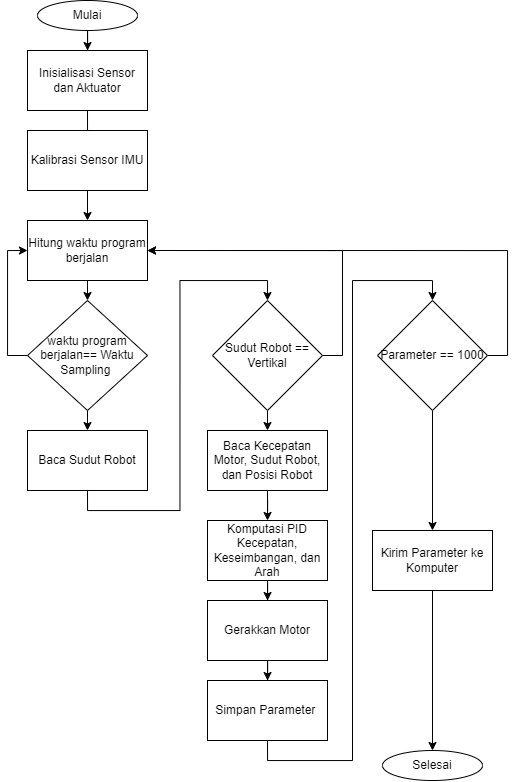
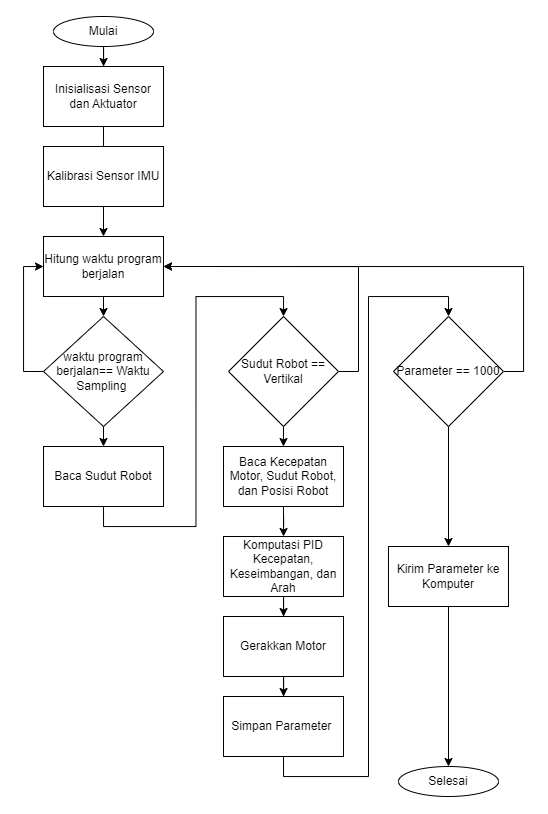
Redraw control diagram as light/dark SVG
The old PNG had a transparent background with black lines, so it was
nearly invisible in GitHub's dark theme. The new diagram is generated
by docs/diagrams/make_control_diagram.py, follows the v3 firmware
(speed PID output is the angle setpoint), colour-codes each loop and
switches with the GitHub theme via <picture>. The flowchart gets a
white background for the same reason.

Changed region(s): [[0.031, 0.0, 0.9612, 1.0], [0.062, 0.5524, 0.3411, 0.6752]]

diff --git a/docs/diagrams/make_control_diagram.py b/docs/diagrams/make_control_diagram.py
@@ -1,0 +1,186 @@
+"""Generate docs/images/control-system-{light,dark}.svg (cascade PID block diagram).
+
+    python docs/diagrams/make_control_diagram.py
+
+Edit the layout constants or labels below and re-run; no dependencies needed.
+"""
+import pathlib
+import sys
+
+OUT = pathlib.Path(sys.argv[1]) if len(sys.argv) > 1 else pathlib.Path(__file__).resolve().parent.parent / "images"
+
+THEMES = {
+    "light": dict(bg="#ffffff", fg="#1f2328", muted="#59636e", nfill="#f6f8fa", nstroke="#57606a",
+                  speed="#9a6700", speed_fill="#fff8c5", bal="#0969da", bal_fill="#ddf4ff",
+                  line="#1a7f37", line_fill="#dafbe1"),
+    "dark": dict(bg="#0d1117", fg="#e6edf3", muted="#9198a1", nfill="#161b22", nstroke="#8b949e",
+                 speed="#d29922", speed_fill="#2b2111", bal="#4493f8", bal_fill="#0f2742",
+                 line="#3fb950", line_fill="#11281a"),
+}
+
+# ---- layout -------------------------------------------------------------
+X0 = 24                       # setpoint arrows start
+SX = 160                      # summing junctions of speed + line loops
+R = 16
+PW, PH = 124, 54              # PID block size
+P1 = SX + R + 22              # speed / line PID left edge
+SX2 = P1 + PW + 66            # balance summing junction
+P2 = SX2 + R + 22             # balance PID left edge
+MX, MW = P2 + PW + 56, 126    # mixer
+RX, RW = MX + MW + 74, 136    # robot
+W = RX + RW + 22
+Y0, Y1 = 128, 250             # line row, main (speed -> balance) row
+MY0, MY1 = Y0 - 38, Y1 + 38
+RY0, RY1 = 106, 272
+YL, YR = 168, 232             # PWM left / right rows
+QTR = (MX + 16, 10, W - 22, 58)
+IMU = (MX, 310, RX + 44, 358)
+ENC = (MX, 384, W - 22, 432)
+H = 478
+
+FONT = "-apple-system, BlinkMacSystemFont, 'Segoe UI', Helvetica, Arial, sans-serif"
+
+
+def svg(theme):
+    c = THEMES[theme]
+    e = []
+    add = e.append
+
+    def line(points, color, dashed=False, arrow=True):
+        d = " ".join(f"{x},{y}" for x, y in points)
+        dash = ' stroke-dasharray="7 5"' if dashed else ""
+        mk = f' marker-end="url(#a-{color.strip("#")})"' if arrow else ""
+        add(f'<polyline points="{d}" fill="none" stroke="{color}" stroke-width="1.8"{dash}{mk}/>')
+
+    def text(x, y, s, size=14, color=None, weight=400, anchor="middle", italic=False):
+        style = ' font-style="italic"' if italic else ""
+        add(f'<text x="{x}" y="{y}" font-size="{size}" fill="{color or c["fg"]}" font-weight="{weight}" '
+            f'text-anchor="{anchor}"{style}>{s}</text>')
+
+    def sub(s):
+        # subscript, then a zero-width space to bring the baseline back for any following text
+        return f'<tspan font-size="0.72em" dy="4">{s}</tspan><tspan dy="-4"></tspan>'
+
+    def box(x0, y0, x1, y1, fill, stroke, rx=8):
+        add(f'<rect x="{x0}" y="{y0}" width="{x1 - x0}" height="{y1 - y0}" rx="{rx}" '
+            f'fill="{fill}" stroke="{stroke}" stroke-width="1.6"/>')
+
+    def junction(x, y, color):
+        add(f'<circle cx="{x}" cy="{y}" r="{R}" fill="{c["bg"]}" stroke="{color}" stroke-width="1.8"/>')
+        text(x, y + 5, "Σ", 15, color, 600)
+
+    def pid(x, y, title, subtitle, k):
+        box(x, y - PH / 2, x + PW, y + PH / 2, c[f"{k}_fill"], c[k])
+        text(x + PW / 2, y - 3, title, 14.5, c["fg"], 600)
+        text(x + PW / 2, y + 16, subtitle, 12, c[k])
+
+    def sensor(rect, title, subtitle, k):
+        x0, y0, x1, y1 = rect
+        box(x0, y0, x1, y1, c[f"{k}_fill"], c[k])
+        text((x0 + x1) / 2, y0 + 20, title, 13.5, c["fg"], 600)
+        text((x0 + x1) / 2, y0 + 38, subtitle, 12, c["muted"])
+
+    colors = {c["fg"], c["speed"], c["bal"], c["line"]}
+    defs = "".join(
+        f'<marker id="a-{col.strip("#")}" viewBox="0 0 10 10" refX="10" refY="5" markerWidth="9" '
+        f'markerHeight="9" markerUnits="userSpaceOnUse" orient="auto">'
+        f'<path d="M0,0 L10,5 L0,10 z" fill="{col}"/></marker>' for col in sorted(colors))
+
+    add(f'<rect width="{W}" height="{H}" fill="{c["bg"]}"/>')
+
+    # ---- setpoints ----
+    for y, label, desc in ((Y0, f"line{sub('sp')} = 0", "line setpoint"),
+                           (Y1, f"v{sub('sp')} = 1 m/s", "speed setpoint")):
+        line([(X0, y), (SX - R, y)], c["fg"])
+        text(X0 + 2, y - 9, label, 13.5, anchor="start")
+        text(X0 + 2, y + 19, desc, 12, c["muted"], anchor="start")
+
+    # ---- line loop (row 0) ----
+    junction(SX, Y0, c["line"])
+    text(SX - 25, Y0 - 7, "+", 14, c["fg"], 600)
+    text(SX - 13, Y0 - 22, "−", 15, c["line"], 600)
+    line([(SX + R, Y0), (P1, Y0)], c["fg"])
+    pid(P1, Y0, "Line PID", "steering", "line")
+    line([(P1 + PW, Y0), (MX, Y0)], c["fg"])
+    text((P1 + PW + MX) / 2, Y0 - 9, f"u{sub('steer')}", 14, italic=True)
+    text((P1 + PW + MX) / 2, Y0 + 19, "±100", 12, c["muted"])
+
+    # ---- speed -> balance cascade (row 1) ----
+    junction(SX, Y1, c["speed"])
+    text(SX - 25, Y1 - 7, "+", 14, c["fg"], 600)
+    text(SX - 13, Y1 + 34, "−", 15, c["speed"], 600)
+    line([(SX + R, Y1), (P1, Y1)], c["fg"])
+    pid(P1, Y1, "Speed PID", "outer loop", "speed")
+    line([(P1 + PW, Y1), (SX2 - R, Y1)], c["fg"])
+    text((P1 + PW + SX2 - R) / 2 - 10, Y1 - 9, f"θ{sub('sp')}", 14, italic=True)
+    text((P1 + PW + SX2 - R) / 2 - 10, Y1 + 19, "±2°", 12, c["muted"])
+    junction(SX2, Y1, c["bal"])
+    text(SX2 - 25, Y1 - 7, "+", 14, c["fg"], 600)
+    text(SX2 - 13, Y1 + 34, "−", 15, c["bal"], 600)
+    line([(SX2 + R, Y1), (P2, Y1)], c["fg"])
+    pid(P2, Y1, "Balance PID", "inner loop", "bal")
+    line([(P2 + PW, Y1), (MX, Y1)], c["fg"])
+    text((P2 + PW + MX) / 2, Y1 - 9, f"u{sub('bal')}", 14, italic=True)
+
+    # ---- mixer and robot ----
+    box(MX, MY0, MX + MW, MY1, c["nfill"], c["nstroke"])
+    mx = MX + MW / 2
+    text(mx, (MY0 + MY1) / 2 - 12, "Motor mixer", 14.5, c["fg"], 600)
+    text(mx, (MY0 + MY1) / 2 + 10, f"u{sub('bal')} ∓ u{sub('steer')}", 12.5, c["muted"])
+    text(mx, (MY0 + MY1) / 2 + 30, "clamp ±255", 12, c["muted"])
+    for y, s in ((YL, "L"), (YR, "R")):
+        line([(MX + MW, y), (RX, y)], c["fg"])
+        text((MX + MW + RX) / 2, y - 9, f"PWM{sub(s)}", 13)
+    box(RX, RY0, RX + RW, RY1, c["nfill"], c["nstroke"])
+    text(RX + RW / 2, (RY0 + RY1) / 2 - 4, "Robot", 16, c["fg"], 600)
+    text(RX + RW / 2, (RY0 + RY1) / 2 + 17, "2 × BLDC motor", 12, c["muted"])
+
+    # ---- sensors + feedback ----
+    sensor(QTR, "QTR-8A line sensor (8 × IR)", "weighted average → line position", "line")
+    qx = RX + RW - 34
+    line([(qx, RY0), (qx, QTR[3])], c["line"], dashed=True)
+    qy = (QTR[1] + QTR[3]) / 2
+    line([(QTR[0], qy), (SX, qy), (SX, Y0 - R)], c["line"], dashed=True)
+    text((SX + QTR[0]) / 2, qy - 7, "line position", 12.5, c["line"])
+
+    sensor(IMU, "MPU6050 IMU", "gyro + accel → Kalman filter", "bal")
+    ix = RX + 22
+    line([(ix, RY1), (ix, IMU[1])], c["bal"], dashed=True)
+    iy = (IMU[1] + IMU[3]) / 2
+    line([(IMU[0], iy), (SX2, iy), (SX2, Y1 + R)], c["bal"], dashed=True)
+    text((SX2 + IMU[0]) / 2, iy - 7, "tilt angle θ", 12.5, c["bal"])
+
+    sensor(ENC, "Wheel encoders (left, right)", f"v = (v{sub('L')} + v{sub('R')}) / 2", "speed")
+    ex = RX + RW - 18
+    line([(ex, RY1), (ex, ENC[1])], c["speed"], dashed=True)
+    ey = (ENC[1] + ENC[3]) / 2
+    line([(ENC[0], ey), (SX, ey), (SX, Y1 + R)], c["speed"], dashed=True)
+    text((SX + ENC[0]) / 2, ey - 7, "wheel speed v", 12.5, c["speed"])
+
+    # ---- legend ----
+    ly = H - 16
+    x = X0
+    add(f'<line x1="{x}" y1="{ly - 4}" x2="{x + 26}" y2="{ly - 4}" stroke="{c["fg"]}" stroke-width="1.8"/>')
+    text(x + 34, ly, "control signal", 12, c["muted"], anchor="start")
+    x += 140
+    for k, label in (("speed", "speed feedback"), ("bal", "angle feedback"), ("line", "line feedback")):
+        add(f'<line x1="{x}" y1="{ly - 4}" x2="{x + 26}" y2="{ly - 4}" stroke="{c[k]}" '
+            f'stroke-width="1.8" stroke-dasharray="7 5"/>')
+        text(x + 34, ly, label, 12, c["muted"], anchor="start")
+        x += 145
+    text(W - 22, ly, "all loops run every 10 ms", 12, c["muted"], anchor="end")
+
+    body = "\n  ".join(e)
+    return (f'<svg xmlns="http://www.w3.org/2000/svg" viewBox="0 0 {W} {H}" width="{W}" height="{H}" '
+            f'font-family="{FONT}" role="img" aria-labelledby="t d">\n'
+            f'  <title id="t">TWSBR cascade PID control system</title>\n'
+            f'  <desc id="d">Speed PID sets the tilt-angle setpoint for the balance PID; the line PID adds '
+            f'differential steering; a mixer turns both into left and right motor PWM. Encoders, the MPU6050 '
+            f'with a Kalman filter and the QTR-8A line sensor close the three loops.</desc>\n'
+            f'  <defs>{defs}</defs>\n  {body}\n</svg>\n')
+
+
+for theme in THEMES:
+    path = OUT / f"control-system-{theme}.svg"
+    path.write_text(svg(theme), encoding="utf-8", newline="\n")
+    print(path.name, W, "x", H)

diff --git a/README.md b/README.md
@@ -37,7 +37,10 @@ the line, but it stays on it.
 
 ## How it works
 
-![Control system diagram](docs/images/control-system.png)
+<picture>
+  <source media="(prefers-color-scheme: dark)" srcset="docs/images/control-system-dark.svg">
+  <img src="docs/images/control-system-light.svg" alt="Cascade PID diagram: the speed PID sets the tilt-angle setpoint for the balance PID, the line PID adds steering, a mixer drives the two motors, and encoders, IMU and line sensor feed back">
+</picture>
 
 Every 10 ms the robot reads its sensors and runs three PID loops:
 
@@ -93,7 +96,8 @@ tips past ±45°.
 | MPU6050 SDA / SCL | 35 / 9 | QTR-8A outputs 1 … 8 | 1 … 8 |
 | Battery sense | 21 | | |
 
-Diagram sources (draw.io, Fritzing) are in [`docs/diagrams`](docs/diagrams).
+Diagram sources (draw.io, Fritzing, and the script that draws the control diagram) are in
+[`docs/diagrams`](docs/diagrams).
 
 ## Firmware
 

diff --git a/docs/project-plan.md b/docs/project-plan.md
@@ -108,7 +108,10 @@ Tiga kontroler PID bekerja bersamaan:
 
 Kalman filter menggabungkan akselerometer dan giroskop untuk estimasi sudut yang stabil.
 
-![Diagram sistem kontrol](images/control-system.png)
+<picture>
+  <source media="(prefers-color-scheme: dark)" srcset="images/control-system-dark.svg">
+  <img src="images/control-system-light.svg" alt="Diagram sistem kontrol cascade PID">
+</picture>
 
 ### 3.3 Pengujian
 
